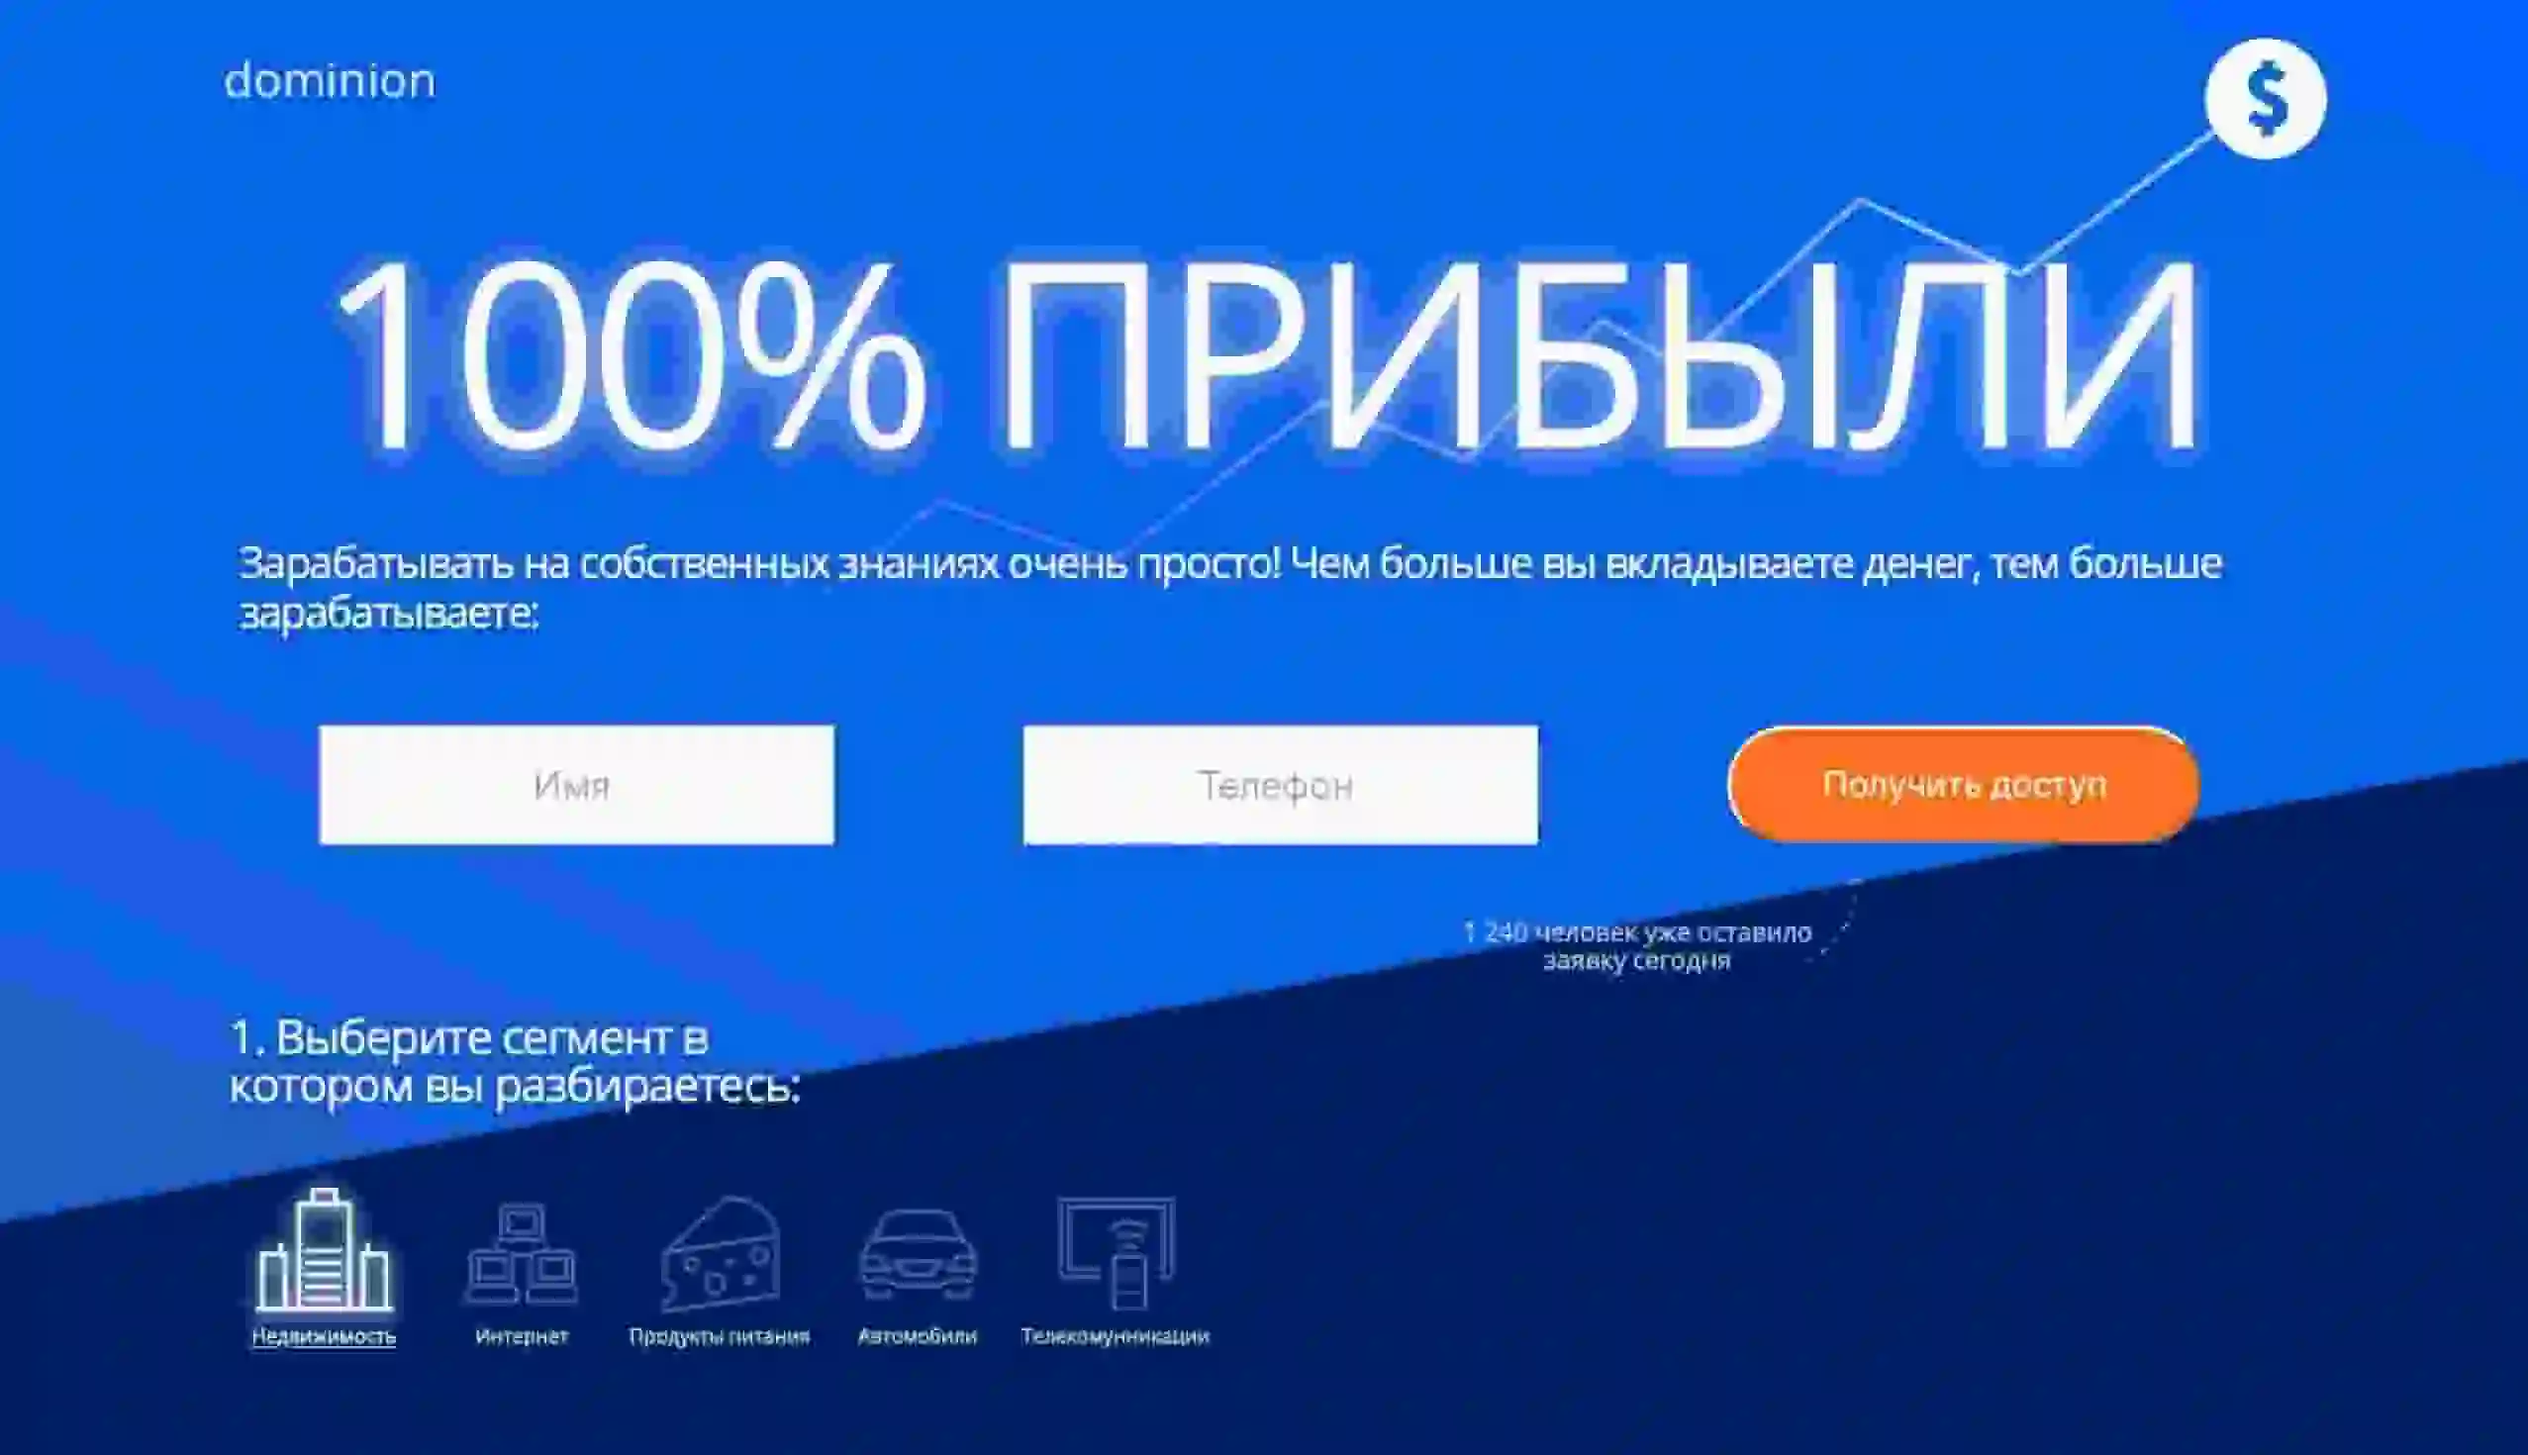
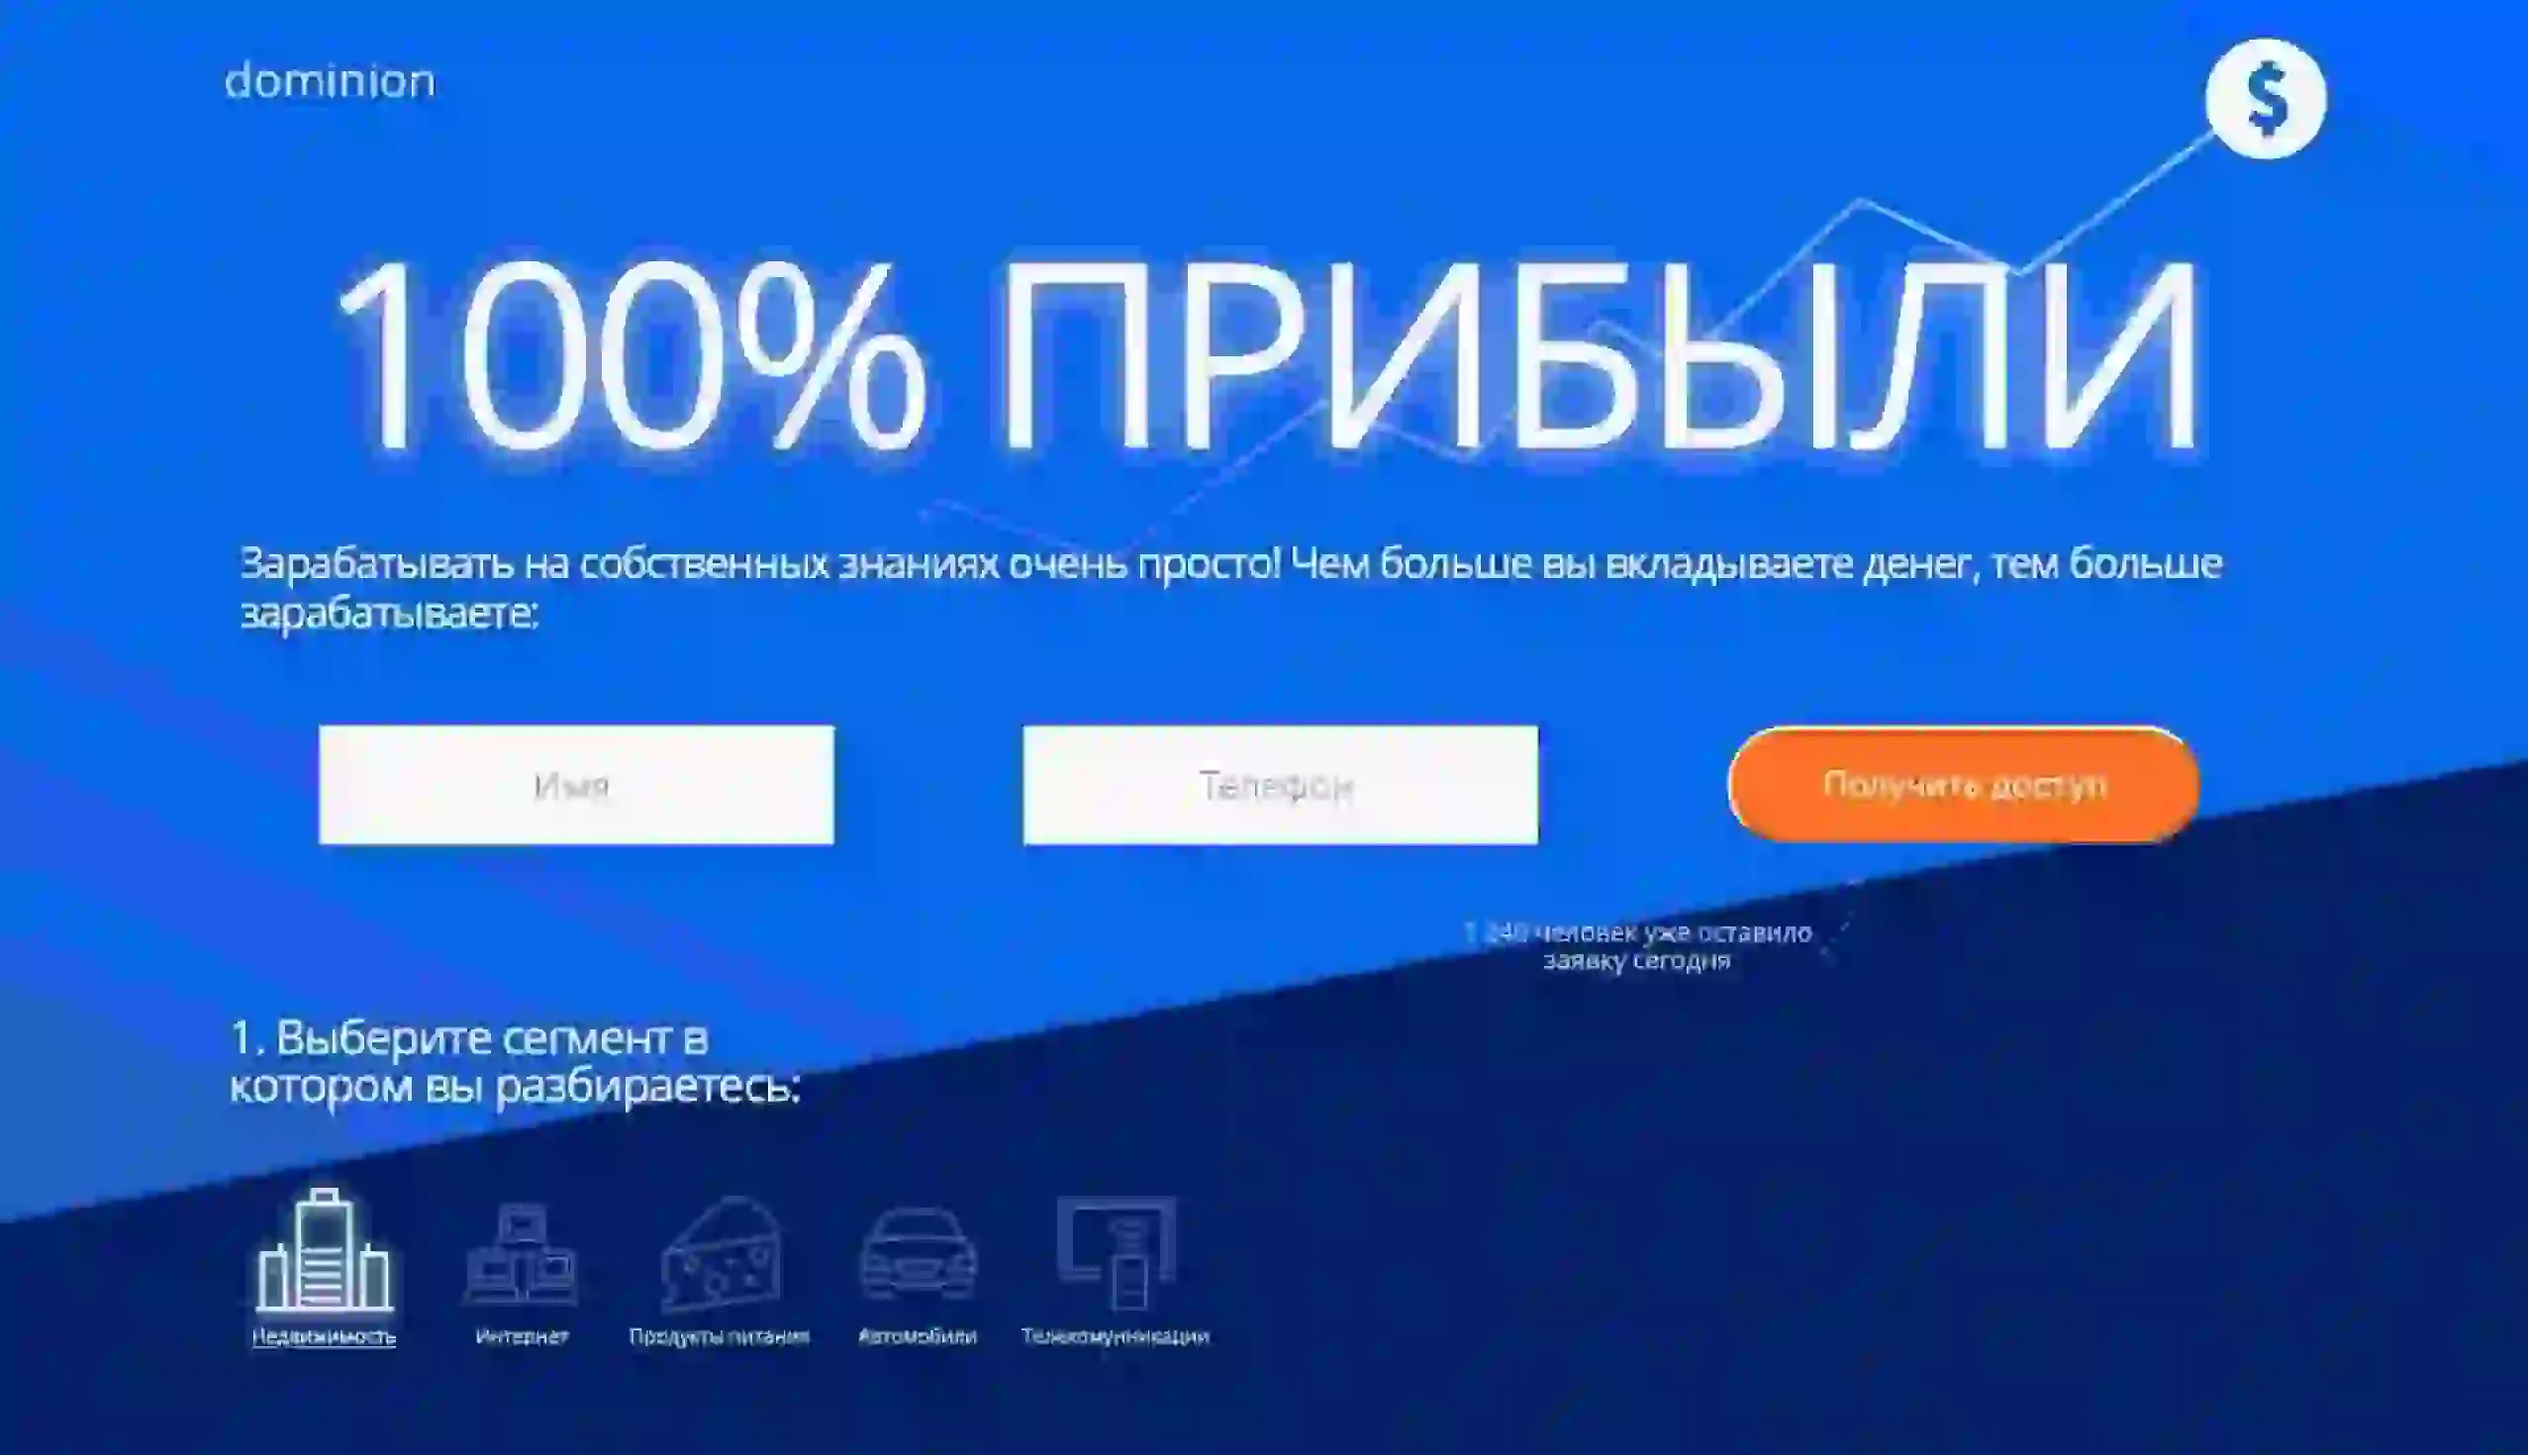
оптимизация картинок

diff --git a/index.html b/index.html
@@ -23,7 +23,7 @@
               <h3 class="text text_type_p text_align_center text_view_primary">Веб-разработчик</h3>
               <ul class="pt-list socials__list">
                 <li class="pt-lit__item">
-                  <a class="text text_size_xxl" href="https://github.com/inquiring" title="github">
+                  <a class="text text_size_xxl text_view_link" href="https://github.com/inquiring" title="github">
                     <span class="icon icon_size_m social-icon_name_github icon_view_ghost">
                         <svg viewBox="0 0 16 16" width="24px" height="24px" version="1.1" aria-hidden="true"><path fill-rule="evenodd" d="M8 0C3.58 0 0 3.58 0 8c0 3.54 2.29 6.53 5.47 7.59.4.07.55-.17.55-.38 0-.19-.01-.82-.01-1.49-2.01.37-2.53-.49-2.69-.94-.09-.23-.48-.94-.82-1.13-.28-.15-.68-.52-.01-.53.63-.01 1.08.58 1.23.82.72 1.21 1.87.87 2.33.66.07-.52.28-.87.51-1.07-1.78-.2-3.64-.89-3.64-3.95 0-.87.31-1.59.82-2.15-.08-.2-.36-1.02.08-2.12 0 0 .67-.21 2.2.82.64-.18 1.32-.27 2-.27.68 0 1.36.09 2 .27 1.53-1.04 2.2-.82 2.2-.82.44 1.1.16 1.92.08 2.12.51.56.82 1.27.82 2.15 0 3.07-1.87 3.75-3.65 3.95.29.25.54.73.54 1.48 0 1.07-.01 1.93-.01 2.2 0 .21.15.46.55.38A8.013 8.013 0 0 0 16 8c0-4.42-3.58-8-8-8z"></path></svg>
                     </span>
